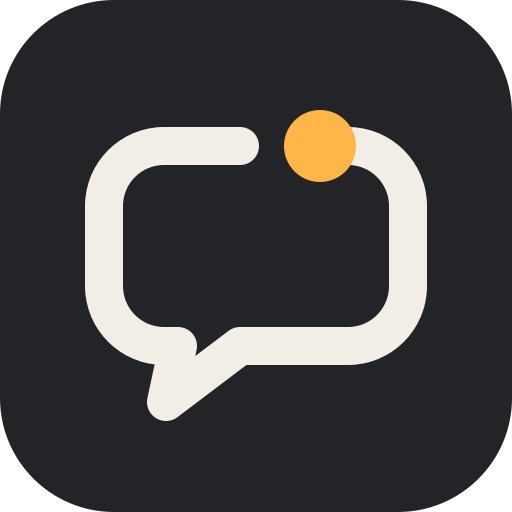
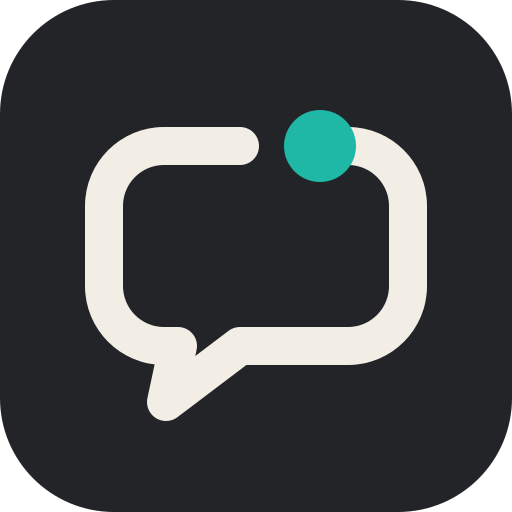
feat: brand tool dot is teal
The tool dot changes from amber to #1FB8A6, a brighter take on
OrcaSlicer's teal. It nods to the slicer and still reads at 32 px.
The icon, logos, mcpb/icon.png and the brand README follow.

Changed region(s): [[0.5312, 0.2188, 0.7188, 0.375]]

diff --git a/docs/brand/README.md b/docs/brand/README.md
@@ -1,8 +1,8 @@
 # Brand
 
-The OrcaSlicer MCP mark: one printed line traces a speech bubble and ends at the tool, the amber dot.
+The OrcaSlicer MCP mark: one printed line traces a speech bubble and ends at the tool, the teal dot.
 
-OrcaSlicer MCP is an independent project. The mark avoids OrcaSlicer's orca logo, wordmark and teal on purpose, so please don't represent this project with OrcaSlicer's own logo.
+OrcaSlicer MCP is an independent project. The dot is a brighter take on OrcaSlicer's teal, a nod to the slicer it works with. Everything else is our own, so please don't represent this project with OrcaSlicer's orca logo or wordmark.
 
 ## Files
 
@@ -21,7 +21,7 @@ OrcaSlicer MCP is an independent project. The mark avoids OrcaSlicer's orca logo
 | --- | --- |
 | Tile, text on light backgrounds | `#232428` |
 | Line, text on dark backgrounds | `#F2EEE6` |
-| Tool dot | `#FFB547` |
+| Tool dot | `#1FB8A6` |
 
 ## Type
 
